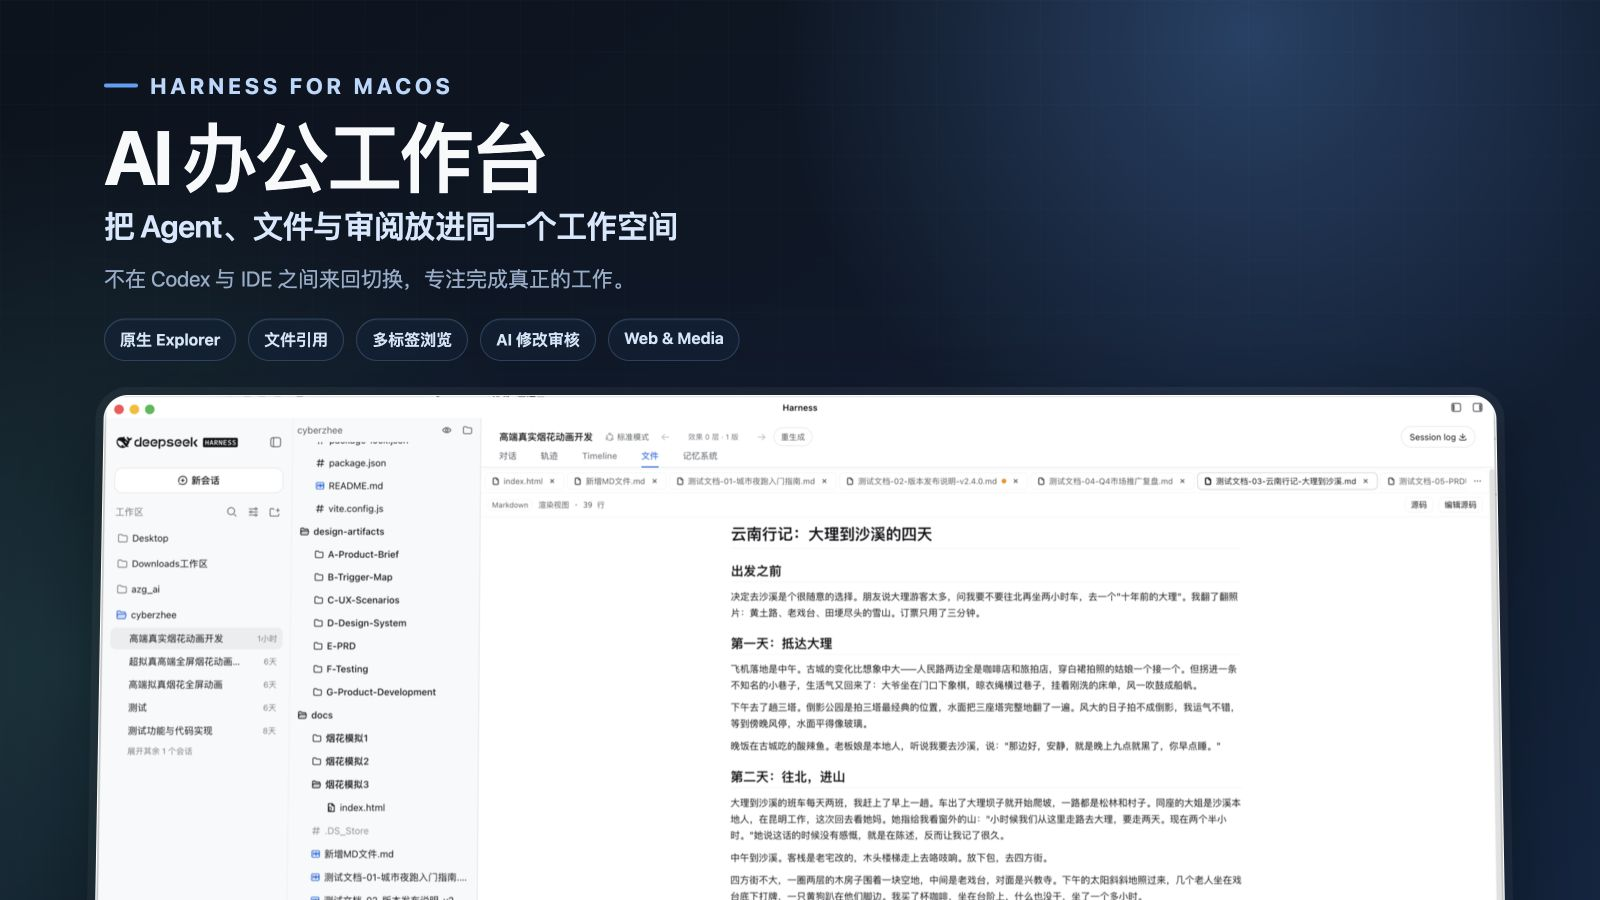
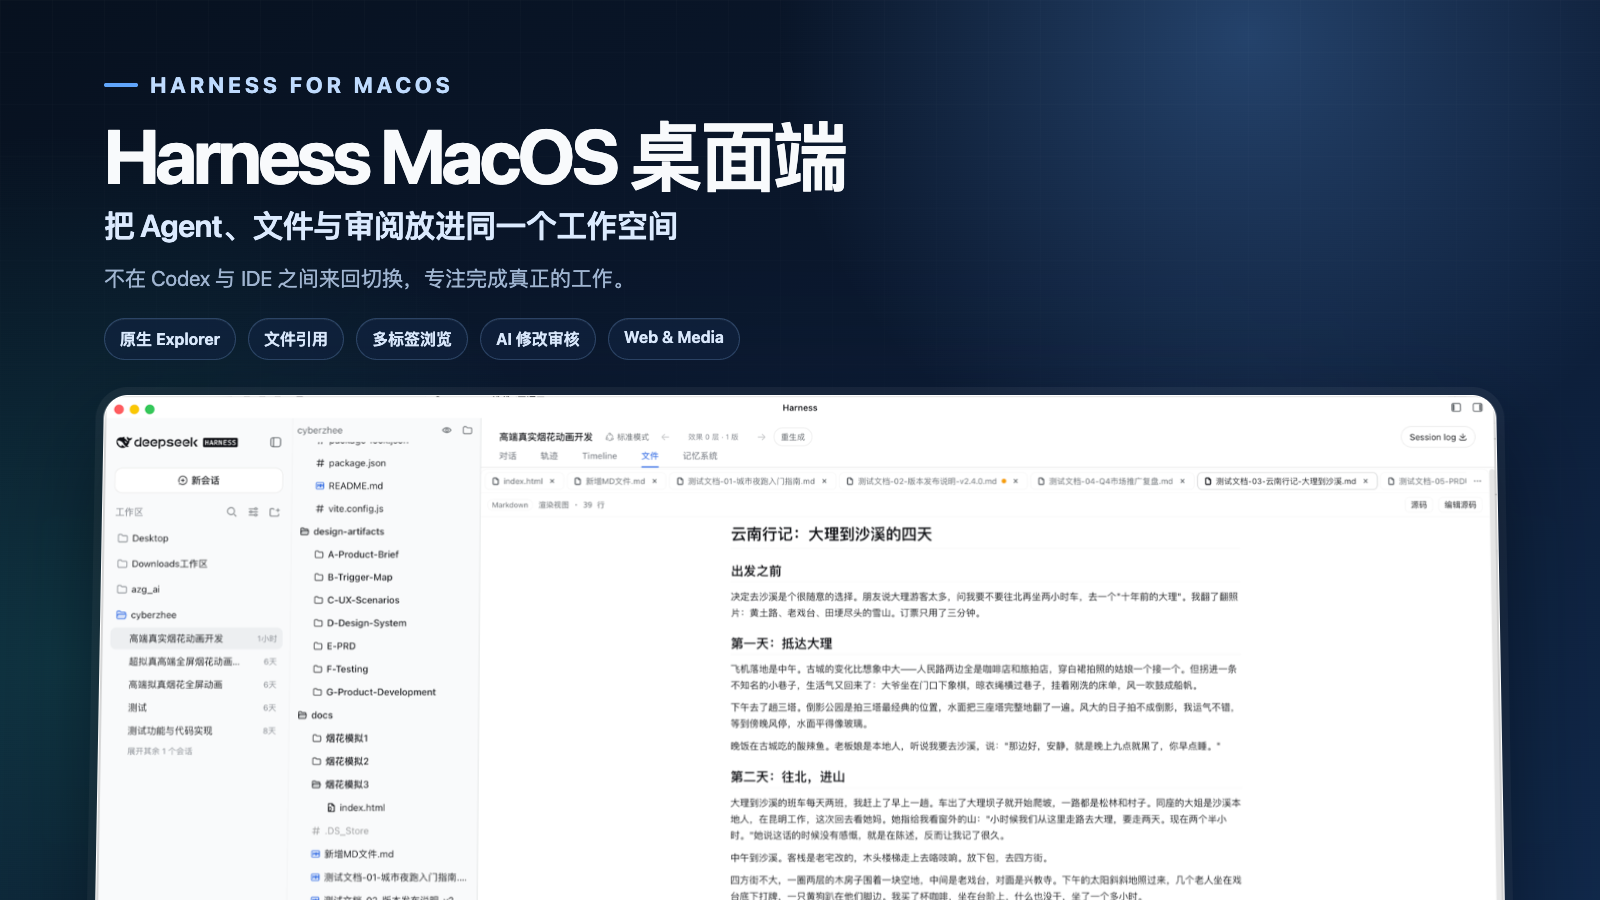
docs: rename README cover headline

diff --git a/assets/readme/cover.html b/assets/readme/cover.html
@@ -81,7 +81,7 @@
 <body>
   <header class="header">
     <div class="eyebrow">HARNESS FOR MACOS</div>
-    <h1>AI 办公工作台</h1>
+    <h1>Harness MacOS 桌面端</h1>
     <p class="lead">把 Agent、文件与审阅放进同一个工作空间</p>
     <p class="description">不在 Codex 与 IDE 之间来回切换，专注完成真正的工作。</p>
     <div class="chips">
